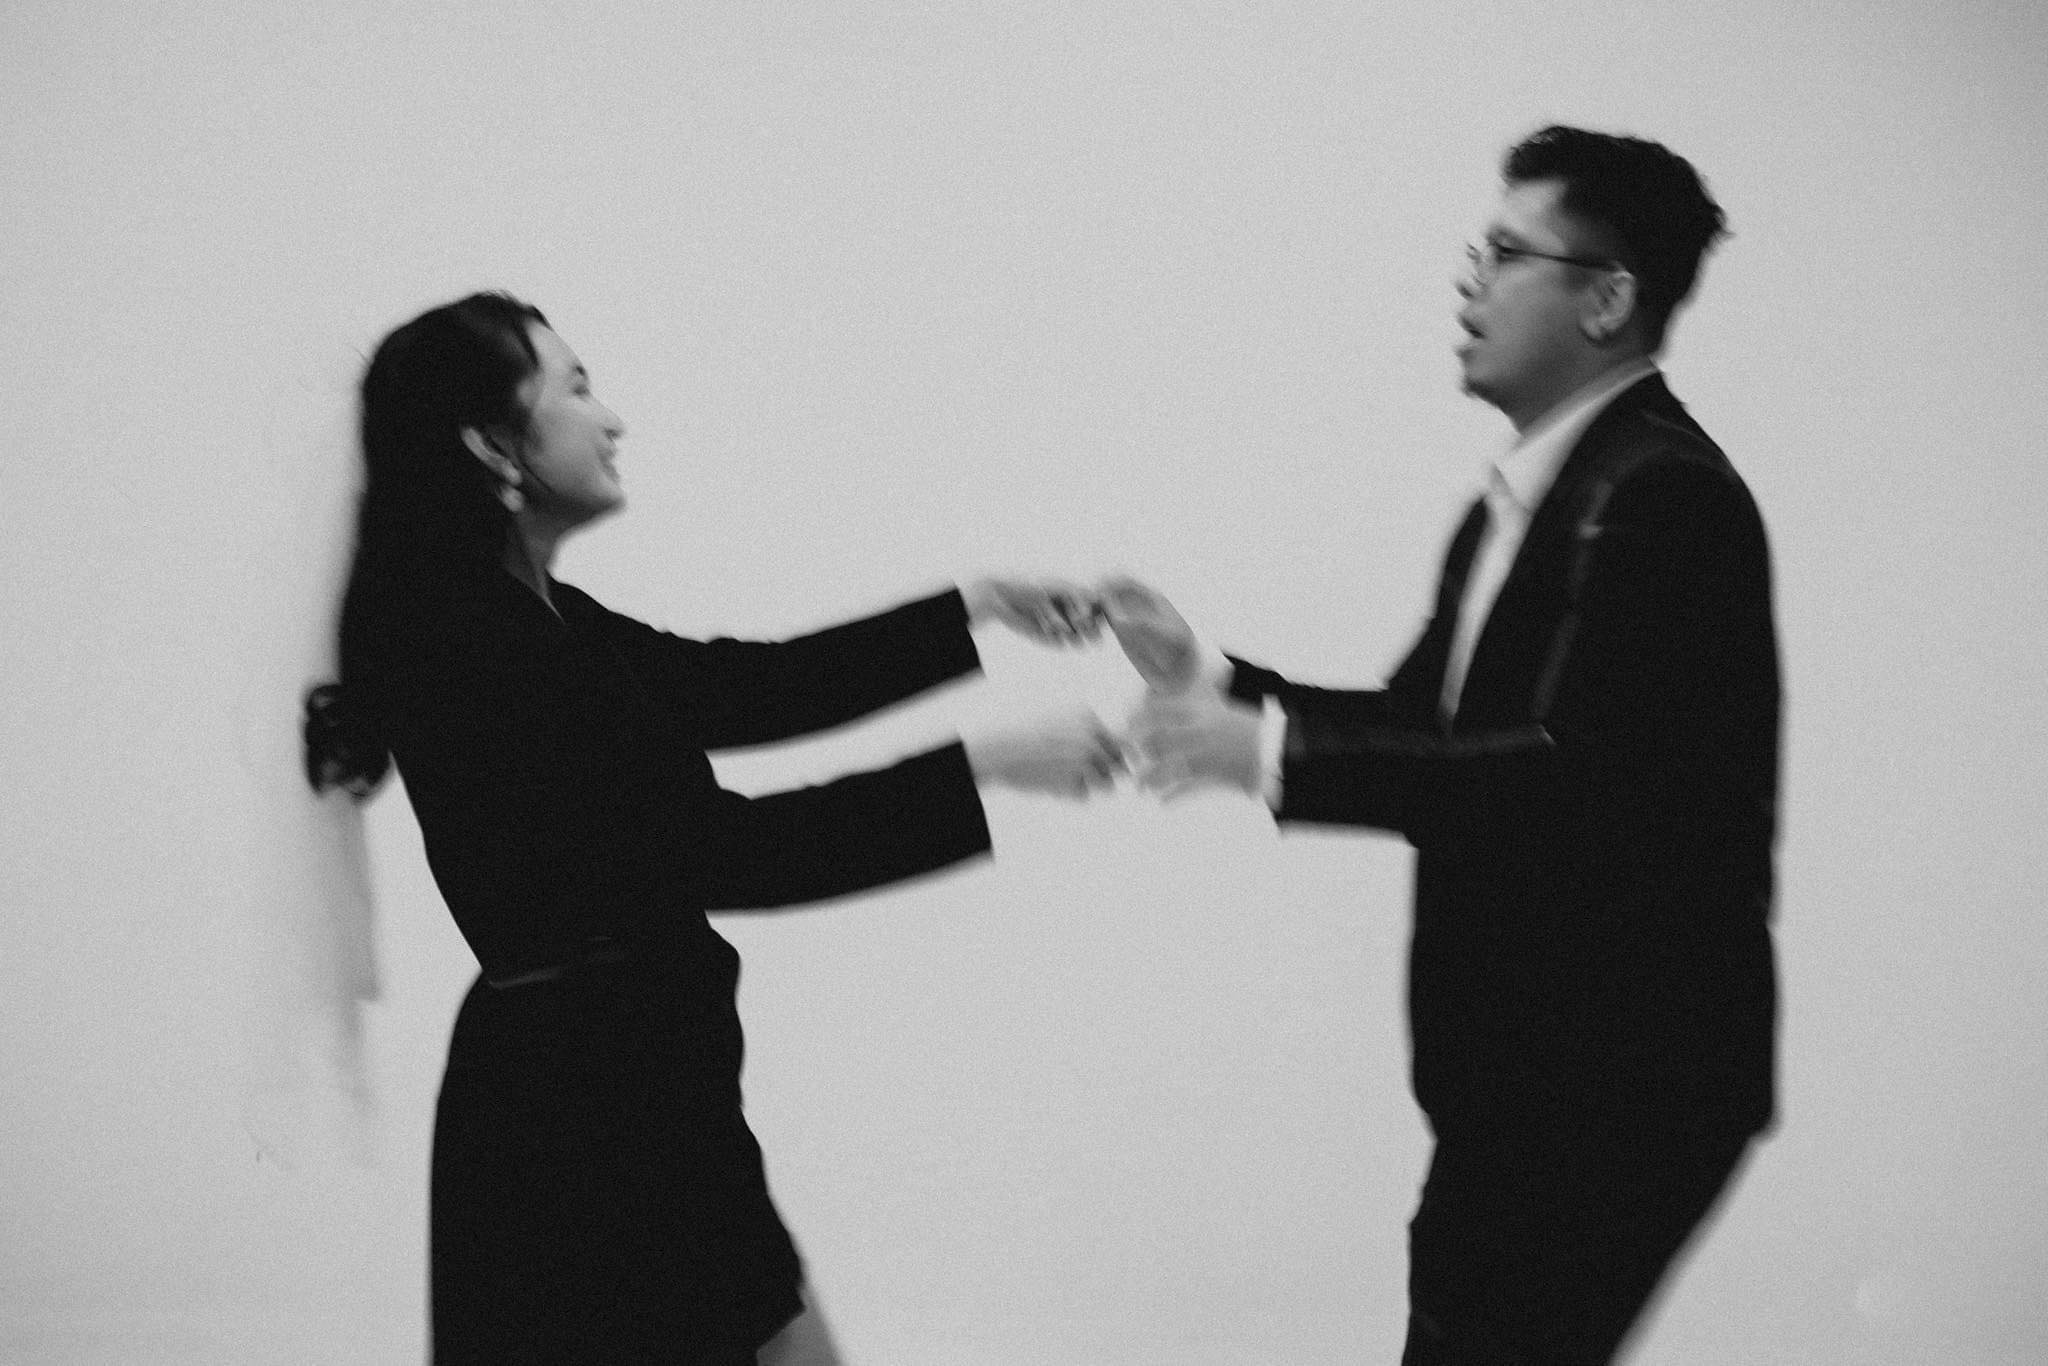
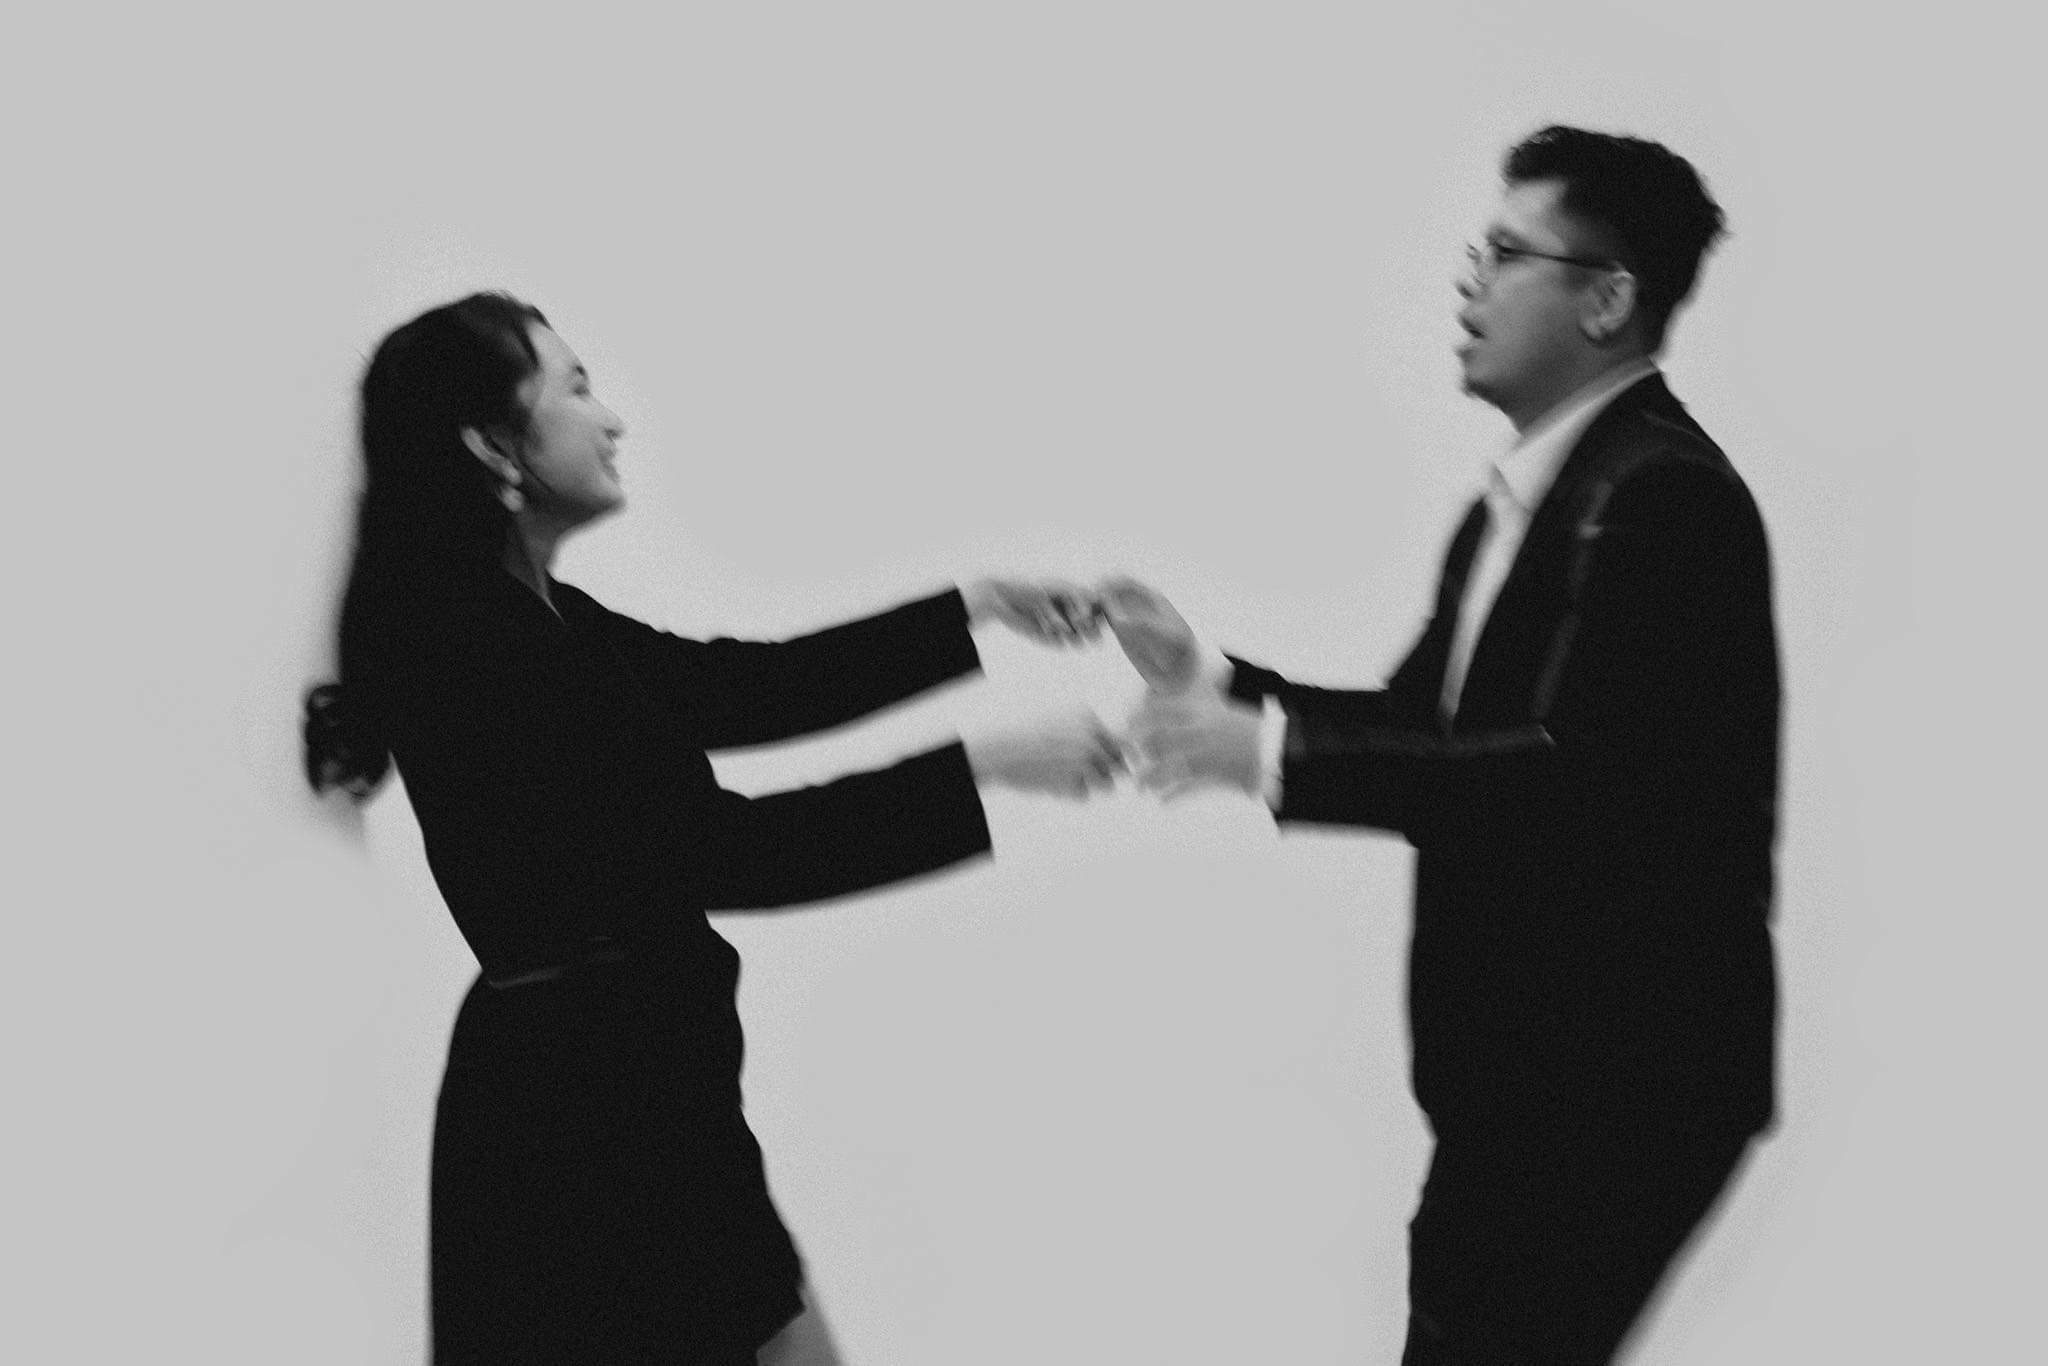
updated ui

diff --git a/src/pages/home/Landing.jsx b/src/pages/home/Landing.jsx
@@ -1,5 +1,5 @@
 import React from 'react'
-import { Box, Typography } from '@mui/material';
+import { Box, Typography, Container } from '@mui/material';
 import Image from 'mui-image';
 import and from "../../assets/images/and.svg"
 import flower from "../../assets/images/flower.svg"
@@ -7,39 +7,41 @@ import { Link } from 'react-router-dom';
 
 const Landing = () => {
   return (
-    <Box sx={{height: "100vh"}}>
-      <Box sx={{height: "100%", display: "flex", flexDirection: "column", alignItems: 'center', justifyContent: "center", gap: 8}}>
-        <Box sx={{display: "flex", justifyContent: "space-between", width: "100%"}}>
-          <Box>
-            <Link>Details</Link>
+    <Container>
+      <Box sx={{height: "100vh"}}>
+        <Box sx={{height: "100%", display: "flex", flexDirection: "column", alignItems: 'center', justifyContent: "center", gap: 8}}>
+          <Box sx={{display: "flex", justifyContent: "space-between", width: "100%"}}>
+            <Box>
+              <Link>Details</Link>
+            </Box>
+            <Box>
+              <Link>Maps</Link>
+            </Box>
+            <Box>
+              <Link>RSVP</Link>
+            </Box>
           </Box>
-          <Box>
-            <Link>Maps</Link>
+          <Box mb={4}>
+            <Typography sx={{letterSpacing: 7, fontSize: {xl: 20}, opacity: .8}}>THE WEDDING OF</Typography>
           </Box>
-          <Box>
-            <Link>RSVP</Link>
+          <Box sx={{height: 350, width: "auto"}}>
+            <Image src={flower}/>
           </Box>
-        </Box>
-        <Box mb={4}>
-          <Typography sx={{letterSpacing: 7, fontSize: {xl: 20}, opacity: .8}}>THE WEDDING OF</Typography>
-        </Box>
-        <Box sx={{height: 350, width: "auto"}}>
-          <Image src={flower}/>
-        </Box>
-        <Box sx={{display: "flex", flexDirection: "row"}}>
-          <Typography variant="h3">MARK</Typography>
-          <Image src={and} alt="and" duration={0} sx={{px: 4}}/>
-          <Typography variant="h3">GAEA</Typography>
-        </Box>
-        <Box sx={{opacity: .85}}>
-          <Typography sx={{letterSpacing: 7, fontSize: {xl: 25}}}>DECEMBER  .  22  .  2023</Typography>
-          <Typography sx={{transform: "skewX(-12deg)", mt: 1, letterSpacing: 2, fontSize:{xl: 20}}}> at four o'clock in the afternoon</Typography>
-          <Typography sx={{letterSpacing: 7, fontSize:{xl: 22}, my: .5}}>THE  V  FARM</Typography>
-          <Typography sx={{transform: "skewX(-12deg)", letterSpacing: 2, fontSize:{xl: 18}}}> Tarlac, Philippines</Typography>
+          <Box sx={{display: "flex", flexDirection: "row"}}>
+            <Typography variant="h3">MARK</Typography>
+            <Image src={and} alt="and" duration={0} sx={{px: 4}}/>
+            <Typography variant="h3">GAEA</Typography>
+          </Box>
+          <Box sx={{opacity: .85}}>
+            <Typography sx={{letterSpacing: 7, fontSize: {xl: 25}}}>DECEMBER  .  22  .  2023</Typography>
+            <Typography sx={{transform: "skewX(-12deg)", mt: 1, letterSpacing: 2, fontSize:{xl: 20}}}> at four o'clock in the afternoon</Typography>
+            <Typography sx={{letterSpacing: 7, fontSize:{xl: 22}, my: .5}}>THE  V  FARM</Typography>
+            <Typography sx={{transform: "skewX(-12deg)", letterSpacing: 2, fontSize:{xl: 18}}}> Tarlac, Philippines</Typography>
 
+          </Box>
         </Box>
       </Box>
-    </Box>
+    </Container>
   )
 }
 

diff --git a/src/pages/home/SecondLanding.jsx b/src/pages/home/SecondLanding.jsx
@@ -1,0 +1,17 @@
+import React from 'react'
+import { Box, Typography, Grid } from '@mui/material';
+import image_1 from "../../assets/images/home_1.jpg"
+import Image from 'mui-image';
+
+const SecondLanding = () => {
+  return (
+    <Box sx={{height: "100vh", display: "flex", position: "relative", opacity: .8}}>
+      <Box sx={{position: "absolute", zIndex: -1, background: "rgba(197,197,197,1)", height: "100vh", width: "100%", top:0, left: 0}}></Box>
+      <Box sx={{position: "absolute", bottom: 0, }}>
+        <Image src={image_1} duration={0} height="70vh" fit="scale-down" width="auto"/>
+      </Box>
+    </Box>
+  )
+}
+
+export default SecondLanding

diff --git a/src/pages/home/Home.jsx b/src/pages/home/Home.jsx
@@ -1,14 +1,15 @@
 import React from 'react'
-import { Container } from '@mui/material'
 import Landing from './Landing'
 import IamYou from './IamYou'
+import SecondLanding from './SecondLanding'
 
 const Home = () => {
   return (
-    <Container>
+    <>
       <Landing/>
-      <IamYou/>
-    </Container>
+      <SecondLanding/>
+      {/* <IamYou/> */}
+    </>
   )
 }
 
